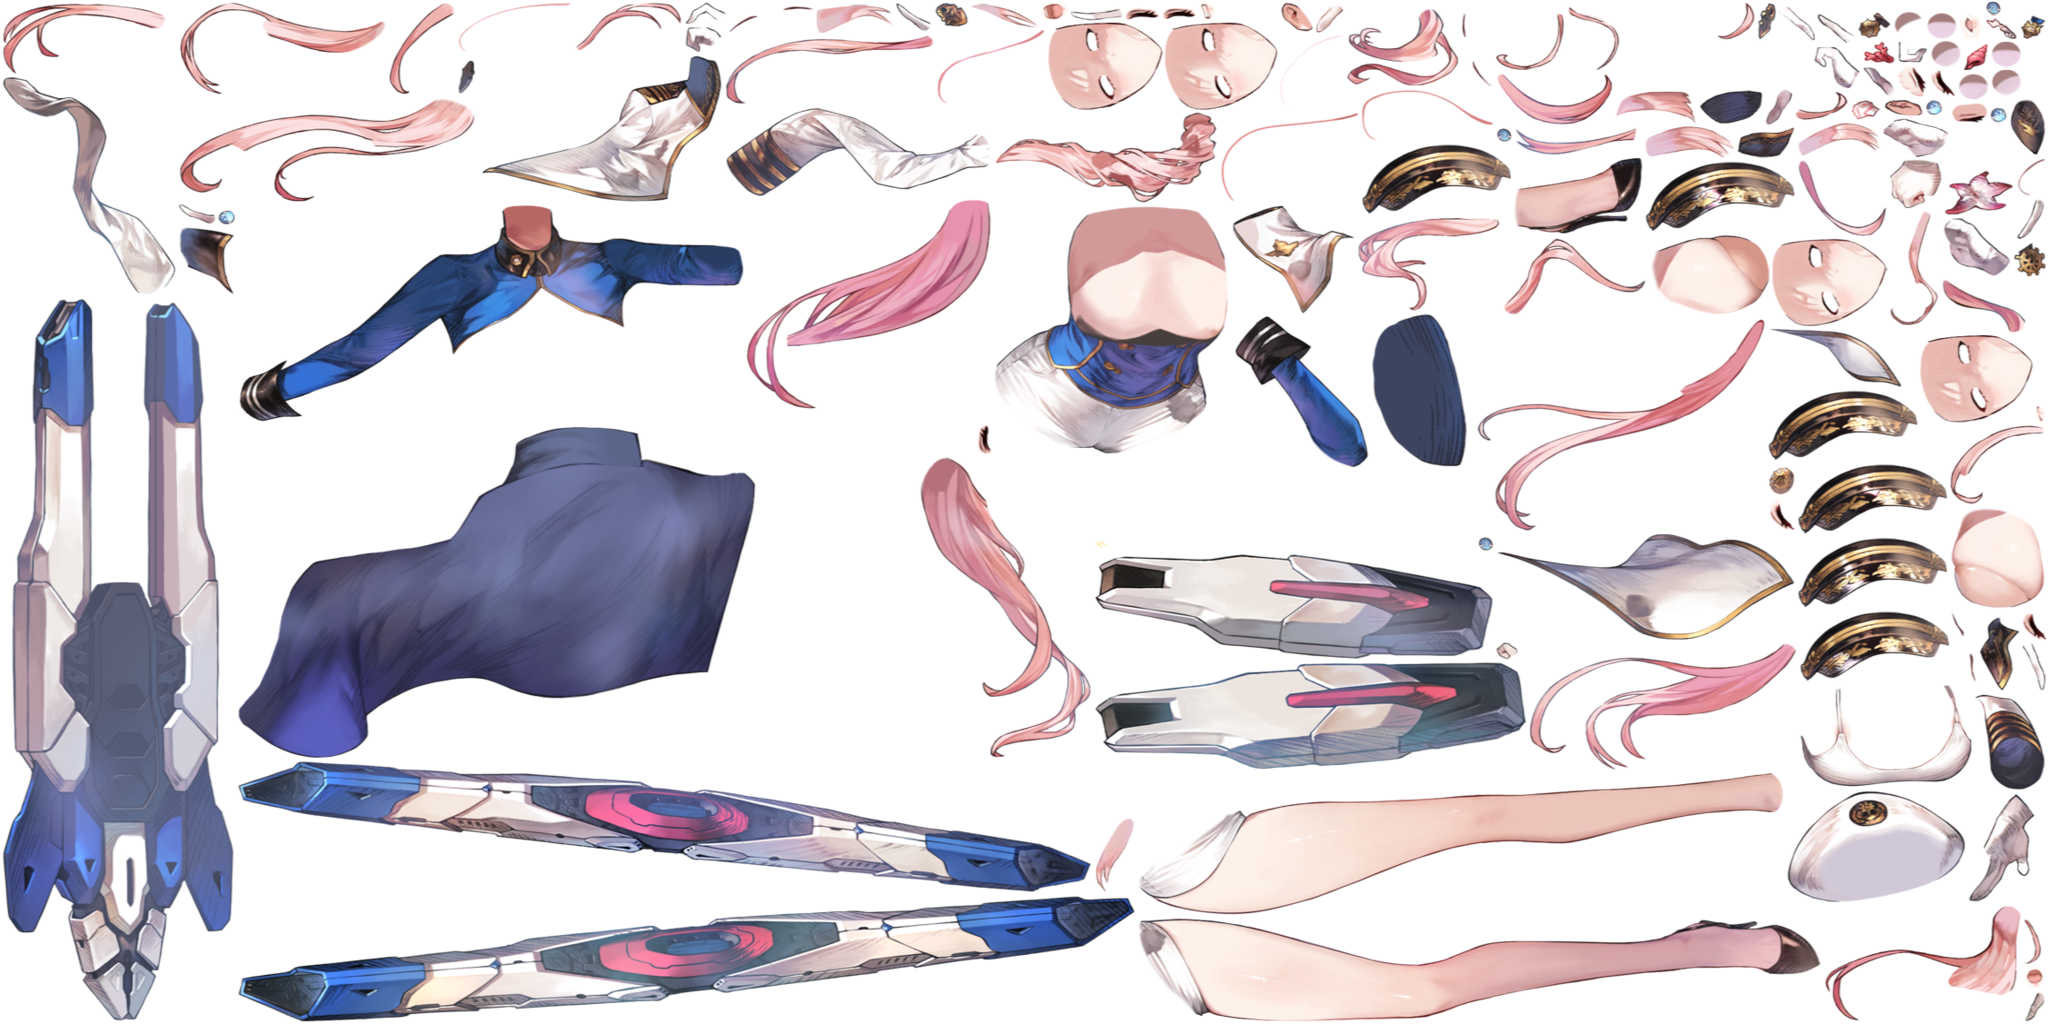
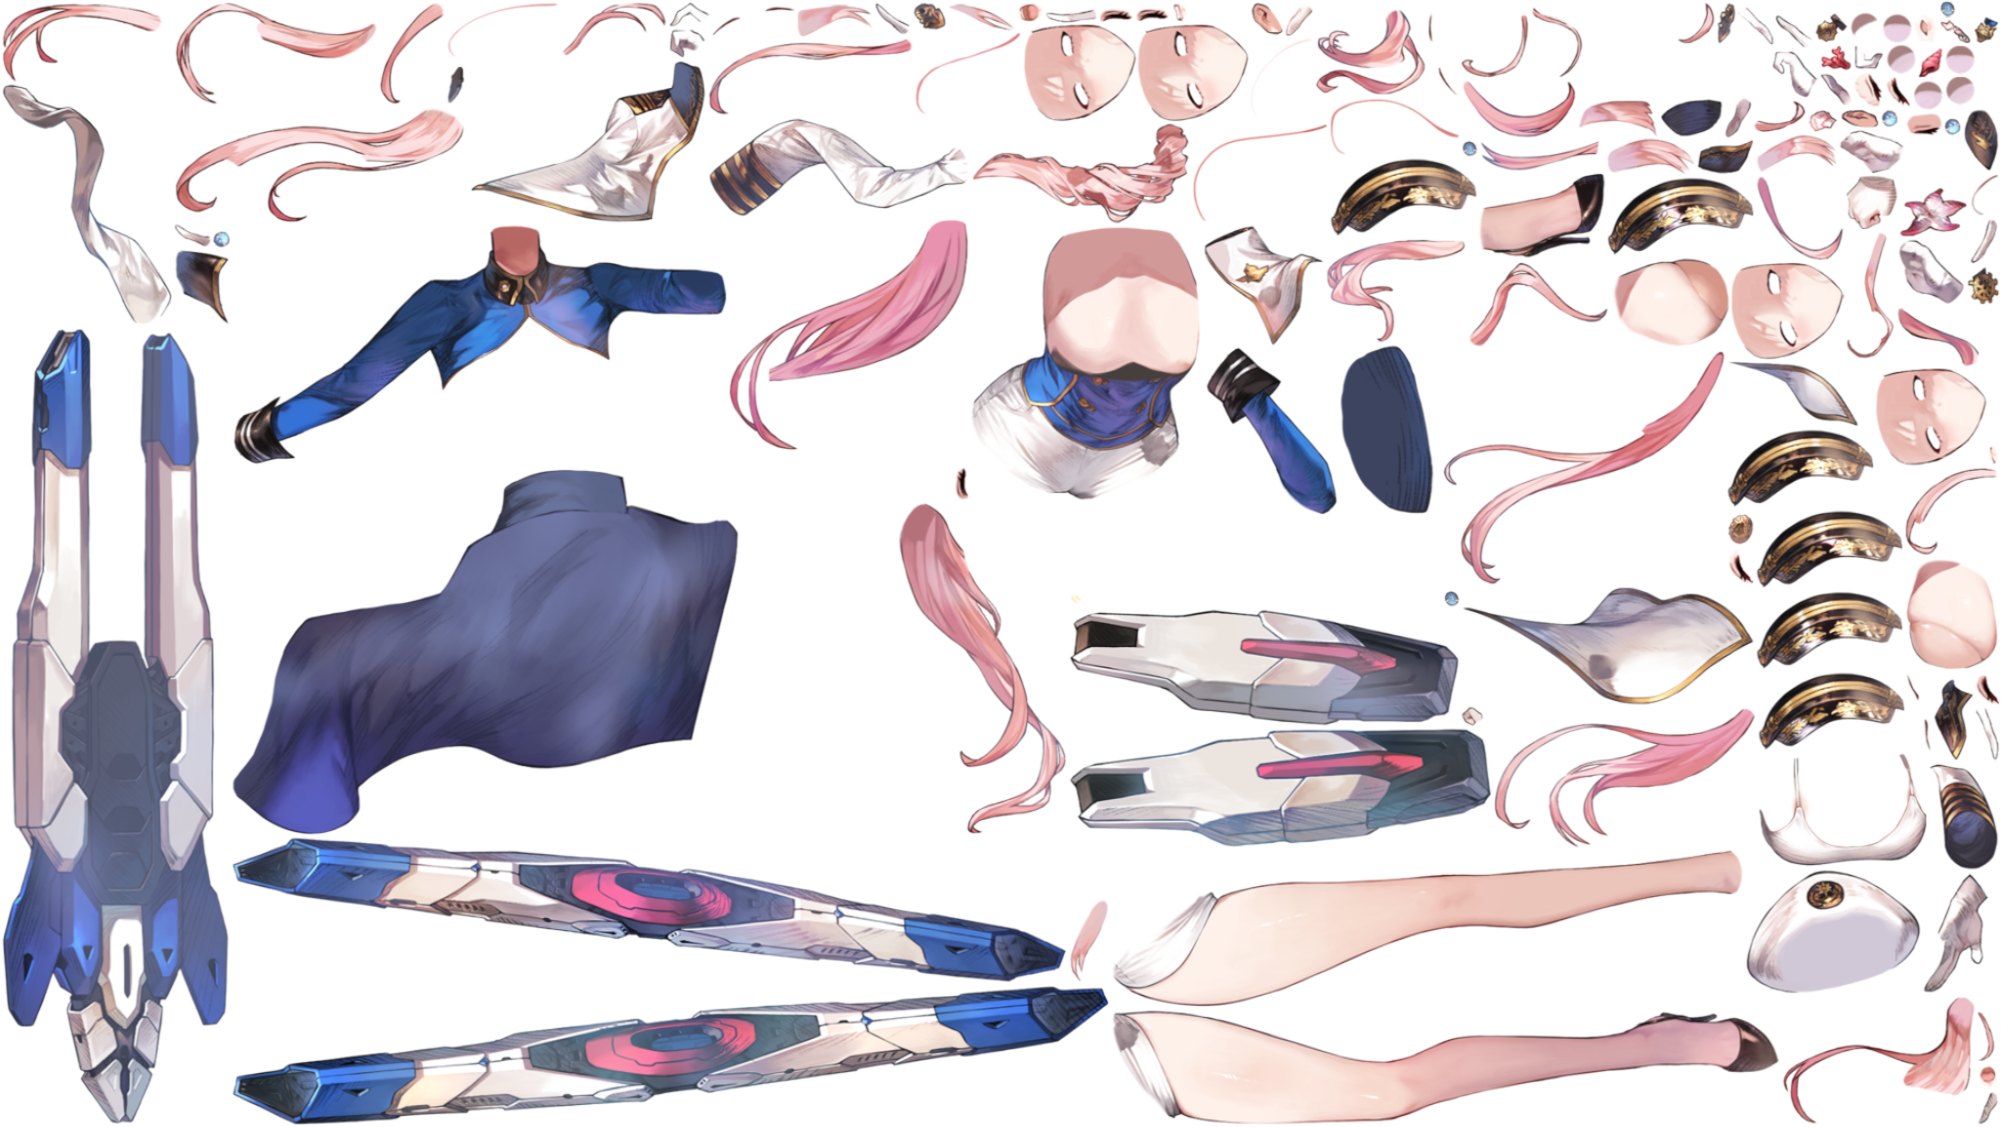
Fixed cursed spine models manuel

diff --git a/README.md b/README.md
@@ -146,8 +146,9 @@ All the Wallpapers from Story Packs, Character Packs, Content Packs, Event Packs
 
 ## Known Issues
 
-Sword Queen Sylvia & Kind Liberator Samay are cursed if you open them now -> Reason extracted PNG has diff Size then in the atlas file expected, if you want to open then just resize them to the size writen in the atlas file  
-I will do a check later that fixed those sizing issues
+On Extraction some Spine models dont have the right png sizes. With that the animations look cursed.  
+I fixed them manuel atm  
+Need to include a proper check so that can be automatically be corrected.  
 
 ## Report Issues
 
